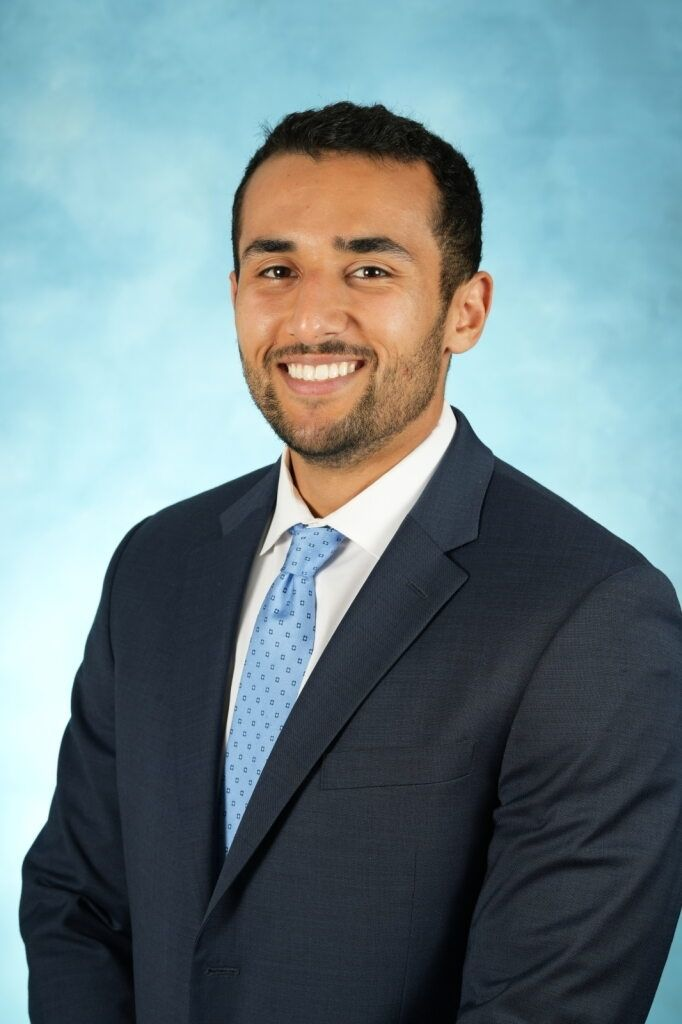
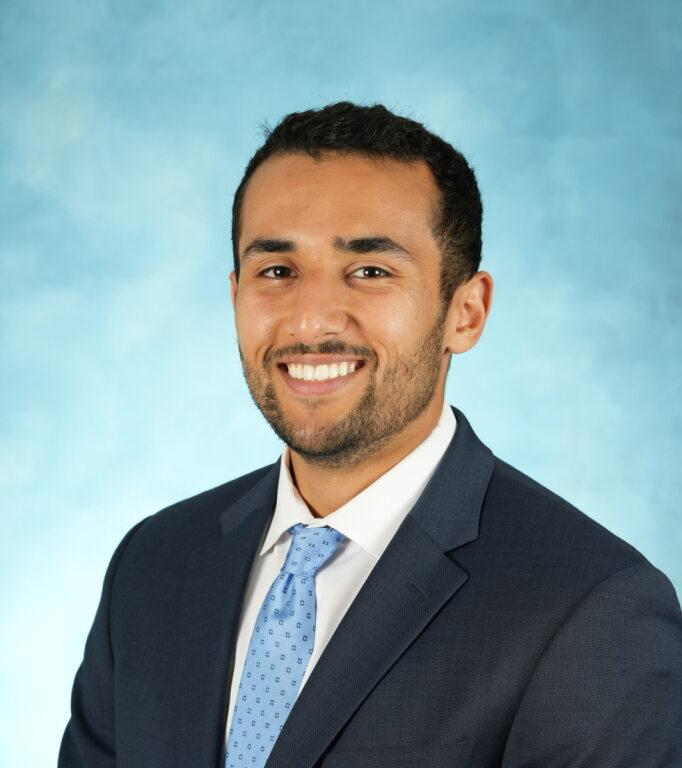
Update webpage
Linkedin URL
Cropping of photo
Updating Bio

diff --git a/_members/yousif-shwetar.md b/_members/yousif-shwetar.md
@@ -5,10 +5,10 @@ description: MD-PhD Student
 links:
   orcid: 0000-0002-0587-4693
   github: yshwetar
-  linkedin: yousif-shwetar-8aab46128
+  linkedin: yousif-shwetar
 ---
 
-I am an MD-PhD student focused on leveraging wearable devices for early disease detection and utilizing imaging technologies to automate diagnostic testing.
+Yousif is an MD-PhD student in the Medical Scientist Training Program (MSTP) at UNC, pursuing a PhD in the Department of Biomedical Engineering. He holds a Bachelor's degree in Biomedical Engineering from the University of Pittsburgh. His PhD research focuses on ocular diseases, ranging from utilizing wearables for phenotype clustering to employing artificial intelligence in medical imaging for prognostication. He also contributes as a biocurator on multiple working groups at the NIH and MONDO disease ontology.
 
 ### Education
 
